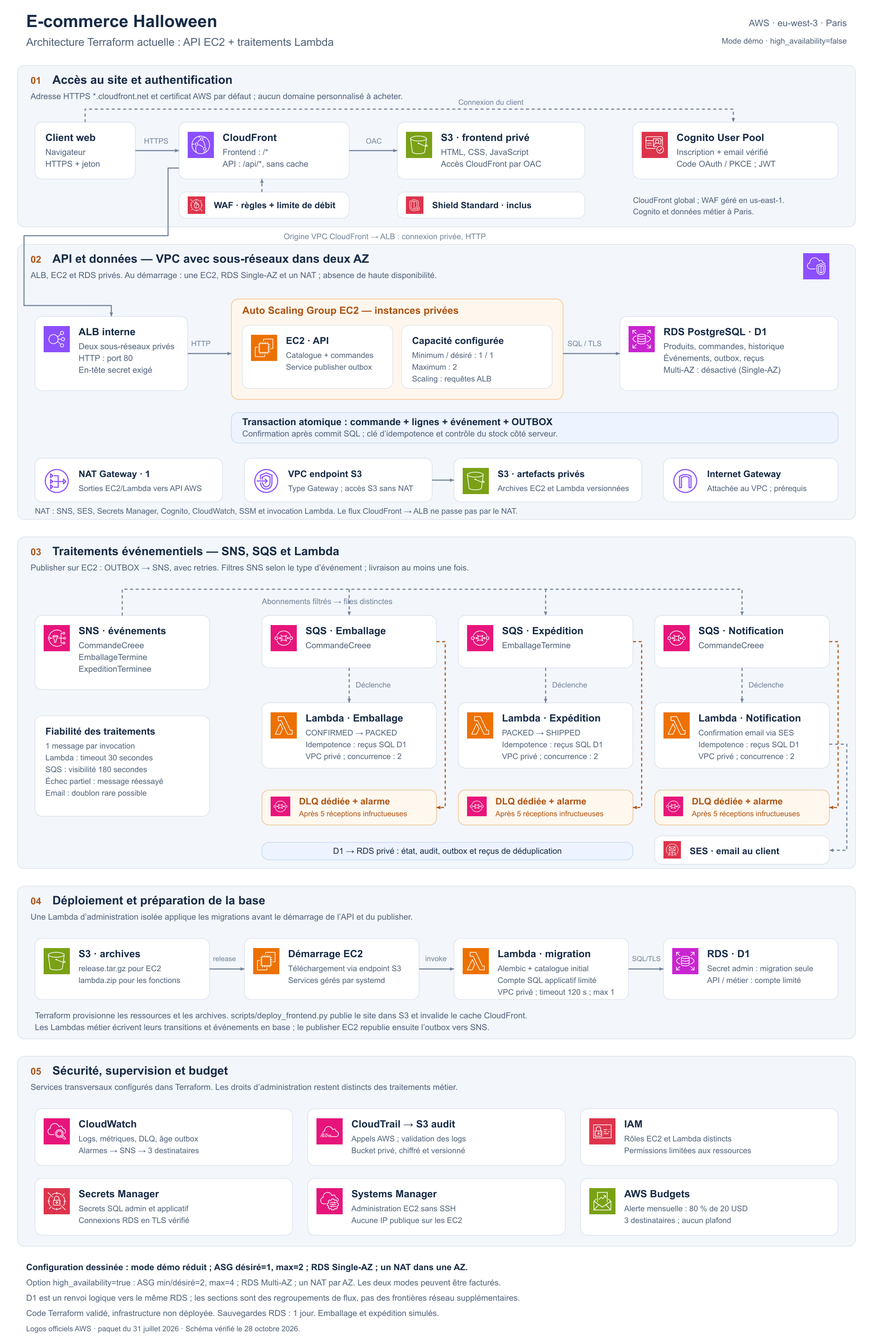
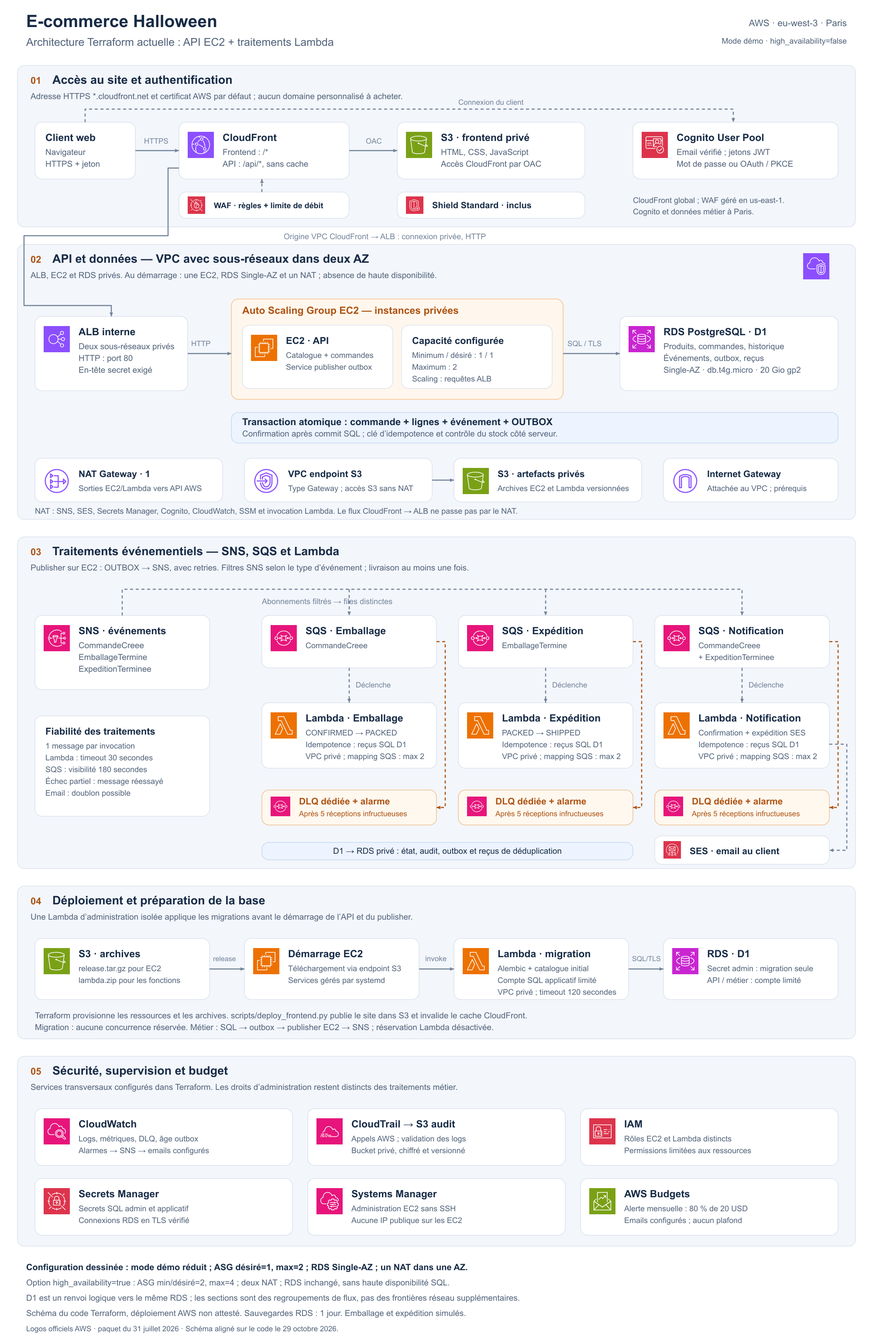
Add AWS architecture estimation documents and update readme with new links and details

Changed region(s): [[0.775, 0.0928, 0.899, 0.1238], [0.248, 0.9902, 0.372, 1.0], [0.806, 0.4642, 0.868, 0.4951]]

diff --git a/scripts/generate_architecture.py b/scripts/generate_architecture.py
@@ -99,10 +99,20 @@ def configuration():
     content = path.read_text() if path.exists() else ""
     availability = re.search(r"^high_availability\s*=\s*(true|false)\s*$", content, re.M)
     budget = re.search(r"^monthly_budget_usd\s*=\s*(\d+(?:\.\d+)?)\s*$", content, re.M)
-    return bool(availability and availability[1] == "true"), budget[1] if budget else "20"
+
+    def flag(name, default):
+        match = re.search(rf"^\s*{name}\s*=\s*(true|false)\s*(?:#.*)?$", content, re.M)
+        return match[1] == "true" if match else default
+
+    return (
+        bool(availability and availability[1] == "true"),
+        budget[1] if budget else "20",
+        flag("enable_waf", True),
+        flag("enable_lambda_reserved_concurrency", False),
+    )
 
 
-def draw_access(d):
+def draw_access(d, waf):
     d.section(
         "01",
         150,
@@ -137,7 +147,7 @@ def draw_access(d):
         130,
         "Amazon-Cognito",
         "Cognito User Pool",
-        ["Inscription + email vérifié", "Code OAuth / PKCE ; JWT"],
+        ["Email vérifié ; jetons JWT", "Mot de passe ou OAuth / PKCE"],
     )
     d.arrow("M310 345H410")
     d.text(330, 329, "HTTPS", 17, LINE)
@@ -147,7 +157,14 @@ def draw_access(d):
     d.text(1050, 240, "Connexion du client", 17, LINE)
     d.rect(410, 440, 390, 60)
     d.icon("AWS-WAF", 430, 450, 40)
-    d.text(490, 477, "WAF · règles + limite de débit", 20, INK, True)
+    d.text(
+        490,
+        477,
+        "WAF · règles + limite de débit" if waf else "WAF · désactivé par configuration",
+        18,
+        INK,
+        True,
+    )
     d.arrow("M600 440V410", True)
     d.rect(910, 440, 430, 60)
     d.icon("AWS-Shield", 930, 450, 40)
@@ -164,7 +181,7 @@ def draw_network(d, ha):
         "API et données — VPC avec sous-réseaux dans deux AZ",
         "ALB, EC2 et RDS privés. "
         + (
-            "Deux EC2 minimum, RDS Multi-AZ, deux NAT."
+            "Deux EC2 minimum et deux NAT ; RDS reste Single-AZ."
             if ha
             else "Au démarrage : une EC2, RDS Single-AZ et un NAT ; absence de haute disponibilité."
         ),
@@ -217,7 +234,7 @@ def draw_network(d, ha):
         [
             "Produits, commandes, historique",
             "Événements, outbox, reçus",
-            "Multi-AZ : " + ("activé" if ha else "désactivé (Single-AZ)"),
+            "Single-AZ · db.t4g.micro · 20 Gio gp2",
         ],
     )
     d.arrow("M410 385H385V540H55V700H255V725")
@@ -313,9 +330,23 @@ def draw_events(d):
     for x, label, event_type, detail in [
         (600, "Emballage", "CommandeCreee", "CONFIRMED → PACKED"),
         (1050, "Expédition", "EmballageTermine", "PACKED → SHIPPED"),
-        (1500, "Notification", "CommandeCreee", "Confirmation email via SES"),
+        (
+            1500,
+            "Notification",
+            "CommandeCreee + ExpeditionTerminee",
+            "Confirmation + expédition SES",
+        ),
     ]:
-        d.card(x, 1410, 400, 120, "Amazon-Simple-Queue-Service", f"SQS · {label}", [event_type])
+        d.card(
+            x,
+            1410,
+            400,
+            120,
+            "Amazon-Simple-Queue-Service",
+            f"SQS · {label}",
+            ["CommandeCreee", "+ ExpeditionTerminee"] if label == "Notification" else [event_type],
+            body_size=18,
+        )
         d.card(
             x,
             1610,
@@ -323,7 +354,7 @@ def draw_events(d):
             150,
             "AWS-Lambda",
             f"Lambda · {label}",
-            [detail, "Idempotence : reçus SQL D1", "VPC privé ; concurrence : 2"],
+            [detail, "Idempotence : reçus SQL D1", "VPC privé ; mapping SQS : max 2"],
             body_size=18,
         )
         d.arrow(f"M{x + 200} 1530V1610", True)
@@ -345,7 +376,7 @@ def draw_events(d):
             "Lambda : timeout 30 secondes",
             "SQS : visibilité 180 secondes",
             "Échec partiel : message réessayé",
-            "Email : doublon rare possible",
+            "Email : doublon possible",
         ],
         22,
         18,
@@ -365,7 +396,7 @@ def draw_events(d):
     d.arrow("M1900 1705H1940V1948H1900", True)
 
 
-def draw_deployment(d):
+def draw_deployment(d, reserved):
     d.section(
         "04",
         2030,
@@ -404,7 +435,7 @@ def draw_deployment(d):
         [
             "Alembic + catalogue initial",
             "Compte SQL applicatif limité",
-            "VPC privé ; timeout 120 s ; max 1",
+            "VPC privé ; timeout 120 secondes",
         ],
         body_size=18,
     )
@@ -435,8 +466,10 @@ def draw_deployment(d):
     d.text(
         80,
         2360,
-        "Les Lambdas métier écrivent leurs transitions et événements en base ; le "
-        "publisher EC2 republie ensuite l’outbox vers SNS.",
+        "Migration : "
+        + ("concurrence réservée à 1." if reserved else "aucune concurrence réservée.")
+        + " Métier : SQL → outbox → publisher EC2 → SNS ; réservation Lambda "
+        + ("à 2 par fonction." if reserved else "désactivée."),
         19,
     )
 
@@ -456,7 +489,7 @@ def draw_operations(d, budget):
             2540,
             "Amazon-CloudWatch",
             "CloudWatch",
-            ["Logs, métriques, DLQ, âge outbox", "Alarmes → SNS → 3 destinataires"],
+            ["Logs, métriques, DLQ, âge outbox", "Alarmes → SNS → emails configurés"],
         ),
         (
             705,
@@ -491,7 +524,7 @@ def draw_operations(d, budget):
             2700,
             "AWS-Budgets",
             "AWS Budgets",
-            [f"Alerte mensuelle : 80 % de {budget} USD", "3 destinataires ; aucun plafond"],
+            [f"Alerte mensuelle : 80 % de {budget} USD", "Emails configurés ; aucun plafond"],
         ),
     ]
     for x, y, icon, title, lines in services:
@@ -504,7 +537,7 @@ def draw_footer(d, ha):
         2910,
         "Configuration dessinée : "
         + (
-            "mode haute disponibilité activé."
+            "capacité EC2/NAT doublée ; RDS reste Single-AZ."
             if ha
             else "mode démo réduit ; ASG désiré=1, max=2 ; RDS Single-AZ ; un NAT dans une AZ."
         ),
@@ -515,8 +548,8 @@ def draw_footer(d, ha):
     d.text(
         60,
         2945,
-        "Option high_availability=true : ASG min/désiré=2, max=4 ; RDS Multi-AZ ; "
-        "un NAT par AZ. Les deux modes peuvent être facturés.",
+        "Option high_availability=true : ASG min/désiré=2, max=4 ; deux NAT ; "
+        "RDS inchangé, sans haute disponibilité SQL.",
         19,
     )
     d.text(
@@ -529,32 +562,38 @@ def draw_footer(d, ha):
     d.text(
         60,
         3015,
-        "Code Terraform validé, infrastructure non déployée. Sauvegardes RDS : "
-        + ("7 jours" if ha else "1 jour")
-        + ". Emballage et expédition simulés.",
+        "Schéma du code Terraform, déploiement AWS non attesté. Sauvegardes RDS : "
+        "1 jour. Emballage et expédition simulés.",
         19,
     )
     d.text(
         60,
         3050,
-        "Logos officiels AWS · paquet du 31 juillet 2026 · Schéma vérifié le 28 octobre 2026.",
+        "Logos officiels AWS · paquet du 31 juillet 2026 · "
+        "Schéma aligné sur le code le 29 octobre 2026.",
         17,
     )
 
 
 def main():
-    ha, budget = configuration()
+    ha, budget, waf, reserved = configuration()
     d = Diagram()
     d.rect(0, 0, 2000, 3070, "#fff", "#fff")
     d.text(60, 62, "E-commerce Halloween", 39, INK, True)
     d.text(60, 105, "Architecture Terraform actuelle : API EC2 + traitements Lambda", 25)
     d.text(1940, 60, "AWS · eu-west-3 · Paris", 21, anchor="end")
-    d.text(1940, 100, "Mode HA" if ha else "Mode démo · high_availability=false", 18, anchor="end")
+    d.text(
+        1940,
+        100,
+        "Capacité EC2/NAT doublée" if ha else "Mode démo · high_availability=false",
+        18,
+        anchor="end",
+    )
 
-    draw_access(d)
+    draw_access(d, waf)
     draw_network(d, ha)
     draw_events(d)
-    draw_deployment(d)
+    draw_deployment(d, reserved)
     draw_operations(d, budget)
     draw_footer(d, ha)
     d.save(

diff --git a/doc/architecture/estimation-industrialisation.md b/doc/architecture/estimation-industrialisation.md
@@ -1,0 +1,91 @@
+# Estimation saisonnière de la cible industrialisée
+
+Calculs réalisés dans AWS Pricing Calculator les 29 et 30 octobre 2026. Le scénario conserve la cible décrite dans `industrialisation.md` : production Paris et warm standby en Irlande. Il ne suppose plus un trafic de pointe toute l’année.
+
+## Résultats
+
+| Période | Hypothèse de charge | Coût mensuel affiché |
+| --- | --- | ---: |
+| Hors saison, 11 mois | 1 000 commandes, 100 utilisateurs actifs, 100 000 requêtes HTTPS, 10 Go CDN | **4 652,46 USD** |
+| Pointe, 1 mois autour d’Halloween | 100 000 commandes, 10 000 utilisateurs actifs, 10 millions de requêtes HTTPS, 500 Go CDN | **5 039,38 USD** |
+
+**Budget annuel saisonnier : 11 × 4 652,46 + 5 039,38 = 56 216,44 USD**, soit environ **4 684,70 USD/mois en moyenne**. Montants hors taxes, avant crédits promotionnels. Ce sont des hypothèses, pas des prévisions de ventes validées.
+
+Les deux écrans du calculateur extrapolent chacun leur propre mois sur douze mois. Leurs colonnes « Total 12 months » ne représentent donc pas ce calendrier saisonnier : utiliser le calcul pondéré ci-dessus. Le maintien des sauvegardes et archives du pic peut aussi décaler une partie du coût sur le mois suivant.
+
+- [Estimation enregistrée du mois de pointe](https://calculator.aws/#/estimate?id=3d59fd6dae4e7c04fbe471766094c6224f968caf).
+- Scénario hors saison : configuré et vérifié dans l’onglet du calculateur, mais son lien public reste en attente de confirmation utilisateur. La revue automatique a refusé sa publication publique sur AWS.
+- `estimation-industrialisation-details.json` conserve les 43 lignes visibles de chaque scénario, leurs descriptions et leurs configurations. Ce fichier est une capture structurée du tableau, pas un export natif AWS ; la tentative d’export natif a bloqué.
+
+## Capacité conservée et capacité saisonnière
+
+À Paris : deux EC2 API c7g.large, deux publishers t4g.small, un ALB privé, deux NAT, trois endpoints interface dans deux AZ, deux nœuds Valkey cache.t4g.small et Aurora PostgreSQL Standard avec un writer et un reader db.r6g.large, 100 Go et RDS Proxy. En Irlande : deux EC2 t4g.small, un ALB, deux NAT, les mêmes trois endpoints sur deux AZ, un secondaire Aurora db.r6g.large de 100 Go et son Proxy. Le cache est froid en secours. Les EC2 et bases permanentes sont chiffrées sur 730 heures/mois à la demande.
+
+Le mois de pointe ajoute deux c7g.large durant 240 heures, avec leurs disques temporaires. Cette ligne passe à zéro hors saison. Ce renfort peut servir de provision pour les pointes et les déploiements ; il ne garantit pas la capacité nécessaire sans test de charge. Les instances minimales des deux régions restent actives pour préserver la cible HA et warm standby.
+
+Les volumes métier changent entre les deux scénarios : Lambda, Step Functions Standard, SNS/SQS, SES, CloudFront, I/O Aurora, logs, traces et transferts. Le polling, les métriques, les alarmes, la sécurité et la CI/CD conservent un socle même sans commandes. Les archives restent stockées : réduire le trafic ne les supprime pas.
+
+## Détail par service
+
+Valeurs du tableau AWS Pricing Calculator, regroupées sur les deux régions et arrondies en USD/mois. Un écart d’un centime peut venir des arrondis et de l’actualisation d’une ligne dans le calculateur ; les totaux de référence sont ceux du récapitulatif.
+
+| Service | Hors saison | Pointe |
+| --- | ---: | ---: |
+| Amazon Aurora PostgreSQL-Compatible DB | 756.08 | 830.66 |
+| Amazon EC2 | 192.52 | 235.60 |
+| Amazon Virtual Private Cloud (VPC) | 255.08 | 259.73 |
+| Elastic Load Balancing | 37.86 | 38.62 |
+| Amazon ElastiCache | 42.05 | 42.05 |
+| AWS Shield | 3000.26 | 3012.80 |
+| Amazon CloudFront | 0.97 | 54.70 |
+| Amazon Cognito | 0.45 | 45.00 |
+| AWS Lambda | 0.10 | 6.06 |
+| AWS Step Functions | 0.18 | 29.58 |
+| Amazon Simple Notification Service (SNS) | 0.00 | 0.00 |
+| Amazon Simple Queue Service (SQS) | 0.16 | 0.80 |
+| Amazon Simple Email Service (SES) | 0.10 | 10.00 |
+| Amazon Simple Storage Service (S3) | 6.52 | 12.59 |
+| AWS Web Application Firewall (WAF) | 14.02 | 14.61 |
+| Amazon CloudWatch | 36.86 | 47.71 |
+| AWS Secrets Manager | 8.10 | 8.55 |
+| AWS Key Management Service | 6.60 | 9.30 |
+| AWS X-Ray | 0.01 | 1.00 |
+| Amazon Athena | 0.02 | 6.23 |
+| AWS Glue | 0.10 | 0.10 |
+| AWS CloudTrail | 0.00 | 0.00 |
+| AWS Config | 40.00 | 40.00 |
+| Amazon GuardDuty | 35.58 | 72.44 |
+| AWS Security Hub | 30.00 | 30.00 |
+| AWS Backup | 180.14 | 196.94 |
+| AWS CodePipeline | 1.80 | 1.80 |
+| AWS CodeBuild | 5.00 | 5.00 |
+| AWS CodeDeploy | 0.00 | 0.00 |
+| Amazon Route 53 | 0.50 | 0.50 |
+| AWS Data Transfer | 1.40 | 27.00 |
+
+## Interprétation
+
+Le coût mensuel ne suit pas proportionnellement le nombre de commandes. Shield Advanced représente environ 3 000 USD/mois avec un engagement annuel, même hors saison. Aurora, les Proxy, les serveurs minimaux, les NAT, les endpoints et le secours coûtent aussi lorsqu’ils sont peu sollicités. Le passage du mois de pointe au mois faible économise environ 387 USD/mois dans cette cible conservée.
+
+Cette cible est donc coûteuse pour une boutique presque inactive pendant onze mois. Une variante à étudier séparément serait de conserver Shield Standard et WAF, d’adapter la capacité SQL à la saison, et de comparer le warm standby à une reprise depuis sauvegardes avec des RTO/RPO moins exigeants. Ces changements de cible ne sont pas appliqués à cette estimation. Un abonnement Shield Advanced annuel ne peut pas être économisé simplement en le désactivant après octobre.
+
+## Hypothèses et limites
+
+- Les tailles, le mois de pointe et les volumes sont supposés. Un pic sur deux mois demande une nouvelle pondération. Le chiffrage ne démontre ni la disponibilité ni les performances.
+- L’estimation chiffre les workloads de production et de secours ainsi qu’une enveloppe de gouvernance/sécurité pour trois comptes. Les workloads applicatifs de préproduction, non définis dans la cible, restent à dimensionner et ne sont pas inclus. Le support AWS payant, les interventions humaines, le nom de domaine, les SMS et les coûts d’un incident réel sont exclus.
+- Shield couvre ici CloudFront. Les frais WAF standard de cette ressource, sous 1 500 WCU et à taille de corps par défaut, ne sont pas comptés une seconde fois. Les deux ACL régionales Cognito restent payantes. Aucun Bot Control ni CAPTCHA payant n’est ajouté.
+- Les champs « Regional NAT Gateway » imposés par le formulaire sont à 1 gateway/1 AZ/0 Go et affichent zéro USD. Ils ne sont pas des NAT supplémentaires dans la cible. Seuls les deux NAT zonaux de chaque région sont budgétés comme ressources réelles.
+- Global Database est approché par deux lignes Aurora et une ligne de transfert. À la pointe, le primaire prévoit 100 I/O/s ; le secondaire 31 I/O/s dont 30 I/O/s de réplication supposées, valorisées par le calculateur comme I/O Standard. Hors saison : 1 I/O/s par cluster. Le prix exact des replicated write I/O et le débit de réplication devront être confirmés lors du dimensionnement de la version Aurora retenue. Ne pas traiter cette approximation comme un devis exact Global Database.
+- Les transferts Paris vers Irlande sont supposés à 850 Go/mois en pointe (Aurora 300, S3 50, sauvegardes 500) et 60 Go hors saison ; trafic inter-AZ Paris 500 Go puis 10 Go. Les éventuels transferts supplémentaires en Irlande et les exercices de bascule ne sont pas chiffrés.
+- Sauvegardes Paris : 100 Go Aurora et 100 Go EBS. Irlande : enveloppe 200 Go Aurora et 140 Go EBS pour les copies et les ressources locales. Quotidiennes 30 jours, continu Aurora 7 jours à Paris et 1 jour en Irlande. Changement quotidien 5 % à la pointe, 0,5 % hors saison. L’enveloppe simule le stockage des copies avec le formulaire de backup, pas un plan de copie exécuté. Vault Lock doit être configuré et testé séparément.
+- S3 : 200 Go Paris et 50 Go Irlande, versions et archives comprises. Logs CloudWatch 30 jours. Les volumes conservés varient dans le temps et doivent être suivis.
+- Config, GuardDuty et Security Hub utilisent une enveloppe agrégée valorisée aux tarifs Paris, plutôt qu’un devis détaillé de chaque compte/région. Les quotas gratuits intégrés par certains calculateurs et les arrondis sont conservés ; les crédits d’un compte ne sont pas appliqués.
+- IAM, Organizations, l’Auto Scaling et les fonctions standard SSM utilisées n’ajoutent pas une ligne d’abonnement propre ici. Les coûts des ressources administrées sont inclus. Les Budgets restent des alertes, pas des plafonds de dépense.
+
+## Sources et preuve
+
+- [Couverture des frais WAF par Shield Advanced](https://docs.aws.amazon.com/waf/latest/developerguide/ddos-advanced-summary-deciding.html).
+- [Tarification et engagement Shield Advanced](https://aws.amazon.com/shield/pricing/).
+- [Aurora Global Database](https://docs.aws.amazon.com/AmazonRDS/latest/AuroraUserGuide/aurora-global-database.html).
+
+![Récapitulatif hors saison](estimation-industrialisation-hors-saison.png)

diff --git a/doc/architecture/estimation-hybride.md b/doc/architecture/estimation-hybride.md
@@ -1,0 +1,45 @@
+# Estimation AWS de l’architecture hybride
+
+Estimation créée dans AWS Pricing Calculator le 29 octobre 2026, puis sauvegardée et ouverte depuis son lien public :
+
+[Ouvrir l’estimation hybride](https://calculator.aws/#/estimate?id=5db38ebdd54994638d207d9aed0e66f3cc6551fa)
+
+**98,45 USD/mois ; 1 181,40 USD sur douze mois ; aucun paiement initial.** Montants hors taxes, hors crédits promotionnels et sans engagement. Le lien public expire après un an selon le calculateur. Il ne contient ni identifiants AWS ni adresses email de l’équipe.
+
+## Configuration et hypothèses
+
+Le scénario correspond au mode réduit du dépôt, `high_availability=false`, avec les ressources permanentes actives 730 heures par mois. Les valeurs de trafic sont des hypothèses de démonstration, pas des mesures de production : 1 000 commandes, 100 utilisateurs actifs Cognito, 100 000 requêtes HTTPS et 10 Go distribués en Europe par mois. Le scénario n’inclut pas de seconde EC2 lors des pointes d’Auto Scaling.
+
+| Poste | Configuration / hypothèse | USD/mois affichés |
+| --- | --- | ---: |
+| EC2 + EBS | 1 t3.micro Linux à la demande, 12 Go gp3, Paris | 9,72 |
+| RDS PostgreSQL | 1 db.t4g.micro Single-AZ, 20 Go gp2, sans Proxy ni Database Insights payant ni Extended Support | 15,80 |
+| VPC | 1 NAT zonal, 10 Go traités, 1 IPv4 publique | 40,65 |
+| ALB | 1 ALB interne, environ 10 Go/mois traités | 19,40 |
+| Lambda | 4 010 appels/mois à 256 Mo x86, durée moyenne globale supposée 1,1 s, sans provisioned concurrency | 0,02 |
+| CloudFront | 10 Go sortants, 0,1 Go vers origine, 100 000 requêtes HTTPS en Europe | 0,97 |
+| S3 | 5 Go cumulés frontend/artefacts/audit, versions incluses ; 10 000 PUT/LIST, 50 000 GET | 0,19 |
+| SNS | 3 000 publications, 4 000 livraisons SQS, 30 notifications email d’alerte | 0,00 |
+| SQS | 410 000 requêtes standard, incluant une provision pour le polling long des trois files ; DLQ sans échec supposé | 0,16 |
+| SES | 2 000 emails transactionnels, sans IP dédiée ni pièces jointes | 0,20 |
+| Cognito | 100 MAU, Essentials par défaut pour un nouveau pool | 0,00 |
+| WAF CloudFront | 1 ACL, 1 règle de débit, 1 groupe AWS Common, 100 000 requêtes ; gestion us-east-1 | 7,06 |
+| Secrets Manager | 2 secrets SQL conservés 30 jours, 10 000 appels API | 0,85 |
+| CloudWatch | 2 métriques personnalisées, 13 alarmes standard, 90 000 appels API, 1 Go de logs ingérés | 3,40 |
+| CloudTrail | 100 000 événements de gestion, première copie d’un trail régional ; stockage compté dans S3 | 0,00 |
+| KMS | 0 clé gérée par le client, 10 000 appels symétriques supposés | 0,03 |
+
+Les montants sont ceux affichés par le calculateur et arrondis par poste. Les offres gratuites ne sont pas soustraites manuellement ; Lambda est explicitement configuré sans Free Tier. Cognito et la première copie CloudTrail conservent les franchises intégrées par le calculateur. Le coût facturé peut donc être inférieur avec les quotas gratuits disponibles et les crédits du compte.
+
+## Limites à connaître
+
+- Le formulaire VPC impose aussi les champs « Regional NAT Gateway », alors que le Terraform crée uniquement un NAT zonal. Ils sont renseignés à 1 gateway / 1 AZ / 0 Go pour permettre l’enregistrement ; le calculateur affiche **0 USD** pour ce sous-poste. Ce champ n’est pas une ressource supplémentaire de l’architecture. Le coût réseau de 40,65 USD correspond au NAT zonal (36,50 USD), à ses 10 Go traités (0,50 USD) et à l’IPv4 (3,65 USD). Cette particularité est signalée dans la description de la ligne VPC partagée.
+- CloudWatch calcule le stockage des logs sur un mois, alors que le Terraform retient 14 jours. La petite surestimation correspondante est conservée et signalée dans la description.
+- Les sauvegardes RDS sont supposées rester dans le quota associé à une base active ; aucun snapshot conservé après suppression ni excédent de sauvegarde n’est ajouté.
+- Les transferts inter-AZ ne sont pas chiffrés faute de volumes mesurés. Ils peuvent concerner SQL et le NAT unique. Les éventuels crédits CPU des instances burstables, les déploiements supplémentaires et les reprises après incident ne sont pas chiffrés.
+- IAM, Auto Scaling, le VPC de base, l’Internet Gateway, l’endpoint S3 Gateway, Shield Standard et les fonctions standard SSM utilisées n’ajoutent pas de ligne payante propre dans ce scénario. Le budget Terraform est une alerte et n’est pas un plafond de coût ; aucun Budget Action ni support payant n’est ajouté.
+- L’estimation n’atteste pas de ressources actuellement déployées et ne prédit pas la facture d’un compte particulier.
+
+![Récapitulatif AWS Pricing Calculator](estimation-hybride-aws.png)
+
+Source du choix Cognito Essentials : [plan par défaut des nouveaux pools, documentation AWS](https://docs.aws.amazon.com/cognito/latest/developerguide/cognito-sign-in-feature-plans.html).

diff --git a/doc/architecture/readme.md b/doc/architecture/readme.md
@@ -7,13 +7,17 @@ L’architecture hybride est celle implémentée dans ce dépôt : une API sur E
 - `architecture-aws-industrialisation.png` et `.svg` : une cible plus ambitieuse pour une activité commerciale importante.
 - `industrialisation.md` : les choix, limites et sources de cette cible future.
 - `aws-service-symbols.svg` : les logos officiels AWS embarqués localement pour rendre le schéma reproductible, sans chargement d’images externes.
+- [Estimation AWS Pricing Calculator de l’architecture hybride](estimation-hybride.md) : lien public, hypothèses de charge et limites du chiffrage du mode réduit.
+- [Estimation saisonnière de la cible industrialisée](estimation-industrialisation.md) : mois faible, pointe Halloween, budget pondéré et hypothèses de production/secours.
 
 La cible d’industrialisation ajoute notamment Aurora, cache et secours multi-région. Ces services ne sont pas déployés par le Terraform hybride.
 
-Le schéma hybride représente la configuration Terraform actuelle, sans domaine personnalisé : CloudFront fournit l’adresse HTTPS et rejoint un ALB interne dans les sous-réseaux privés via une origine VPC. Le flux privé CloudFront → ALB utilise HTTP. La configuration affichée est le mode réduit avec une EC2 désirée, un maximum de deux EC2, RDS Single-AZ et un NAT. Le bas du schéma explique l’option haute disponibilité.
+Le schéma hybride représente la configuration Terraform actuelle, sans domaine personnalisé : CloudFront fournit l’adresse HTTPS et rejoint un ALB interne dans les sous-réseaux privés via une origine VPC. Le flux privé CloudFront → ALB utilise HTTP. La configuration affichée est le mode réduit avec une EC2 désirée, un maximum de deux EC2, RDS Single-AZ et un NAT. L’option `high_availability=true` augmente uniquement la capacité EC2 (minimum/désiré 2, maximum 4) et crée un NAT par AZ : le code actuel conserve RDS Single-AZ, `db.t4g.micro`, 20 Gio gp2 et un jour de sauvegardes. Cette option n’assure donc pas la haute disponibilité de la base.
+
+La file de notification reçoit `CommandeCreee` et `ExpeditionTerminee`, pour les emails de confirmation et d’expédition via SES. Chaque mapping SQS limite la concurrence à deux ; la concurrence réservée des Lambdas est désactivée par défaut. Si `enable_lambda_reserved_concurrency=true`, elle passe à deux par fonction métier et à une pour la migration. Sans cette option, la migration n’a pas de limite de concurrence propre à la fonction. Cognito permet la connexion par mot de passe et le flux OAuth avec PKCE.
 
 La Lambda d’administration pour les migrations SQL est représentée dans une section distincte. Elle prépare les tables au démarrage et ne participe pas au traitement des commandes. Le publisher partage les EC2 de l’API, dans un service séparé. Les renvois `D1` pointent tous vers le même RDS ; les sections regroupent les flux et ne définissent pas des réseaux supplémentaires. Les détails de la configuration actuelle se trouvent dans le [README infrastructure](../../infrastructure/readme.md).
 
-Pour régénérer le SVG et le PNG depuis la racine : `npm ci`, puis `npm run diagram` (avec l’environnement Python du projet installé). Le script lit `high_availability` et `monthly_budget_usd` dans le fichier local de configuration ; toute modification de topologie demande aussi une mise à jour explicite du script de dessin. Le schéma représente du code préparé, sans affirmer qu’une infrastructure AWS est déployée.
+Pour régénérer le SVG et le PNG depuis la racine : `npm ci`, puis `npm run diagram` (avec l’environnement Python du projet installé). Le script lit `high_availability`, `monthly_budget_usd`, `enable_waf` et `enable_lambda_reserved_concurrency` dans le fichier local de configuration ; toute modification de topologie demande aussi une mise à jour explicite du script de dessin. Les destinataires des alertes restent désignés sans exposer leurs adresses. Le schéma représente le code présent au 29 octobre 2026, sans attester du déploiement AWS.
 
 Les logos proviennent du [paquet officiel d’icônes d’architecture AWS](https://aws.amazon.com/architecture/icons/), édition du 31 juillet 2026. Les tracés originaux sont conservés dans le catalogue SVG ; seuls leur taille et leur placement changent dans le schéma.
